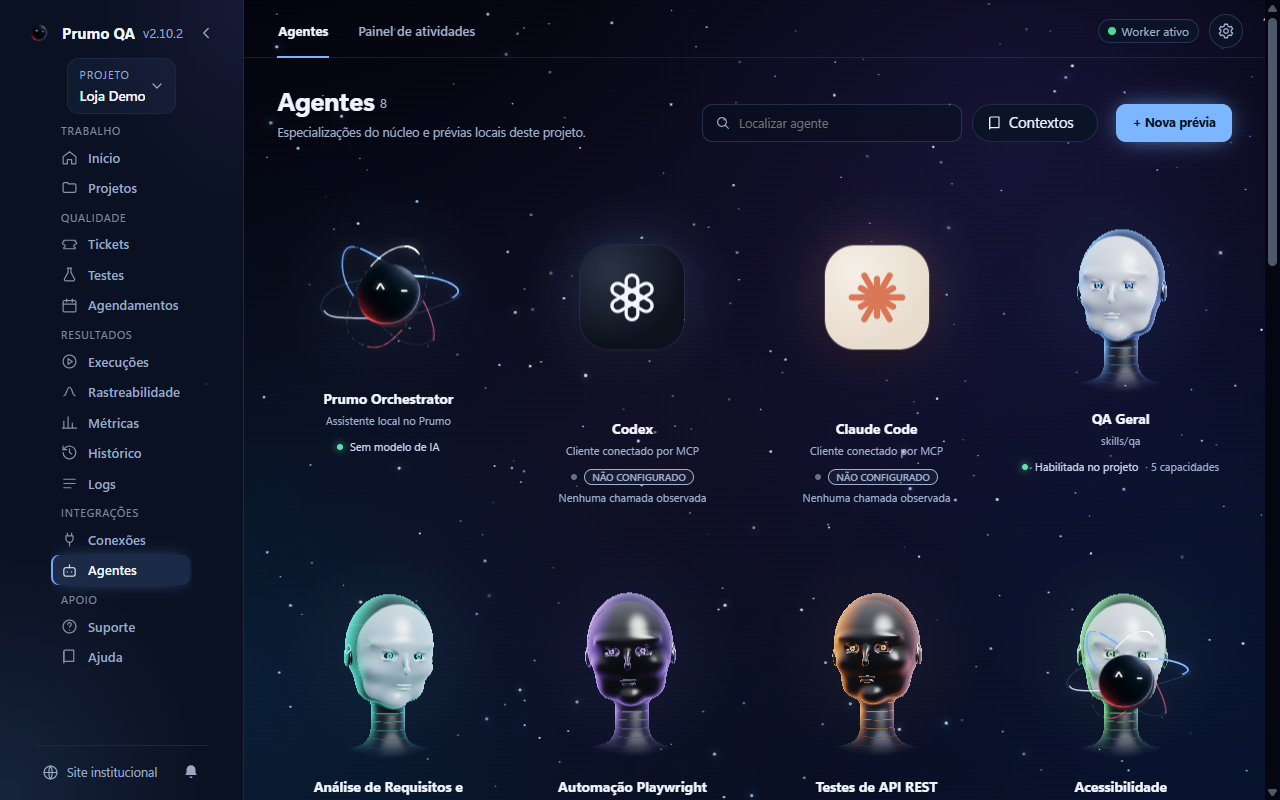
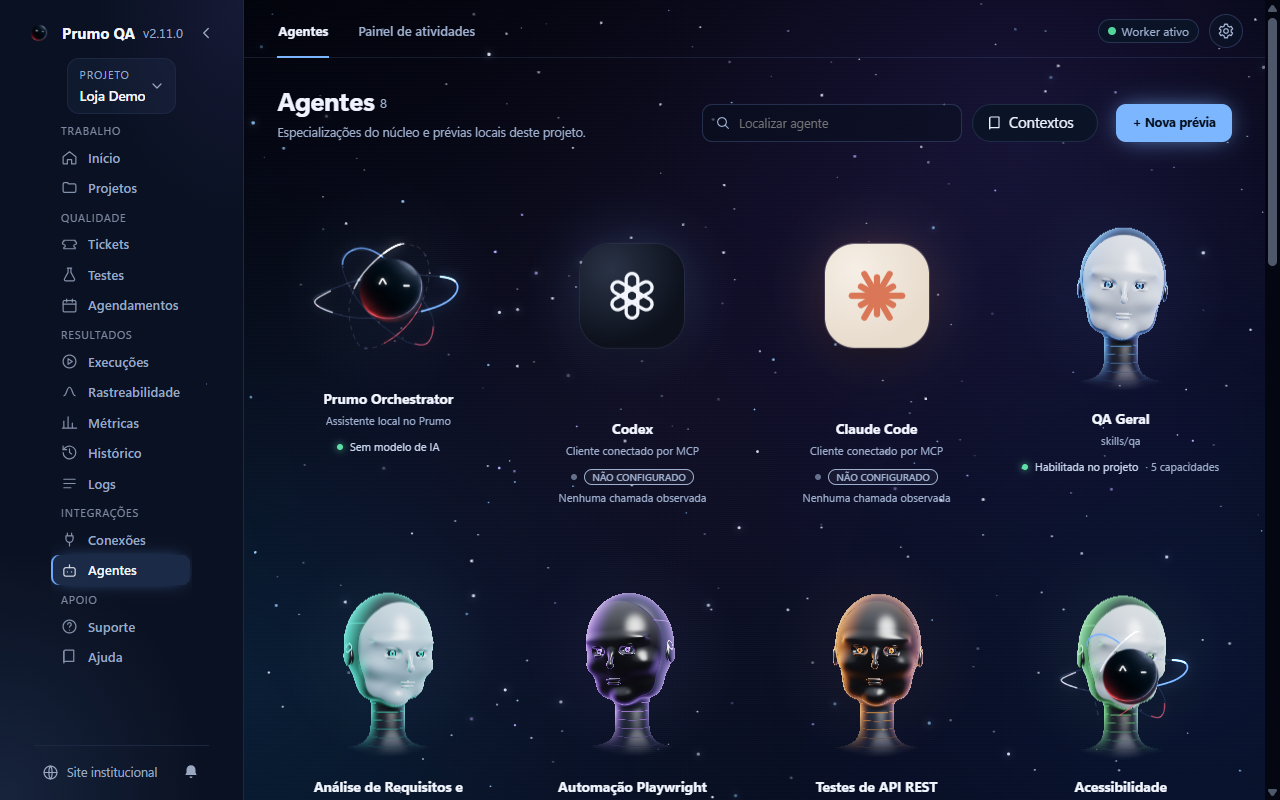
chore(2.11.0): versão, catálogo, README enxuto, capturas e rodapé Prumo QA
- package.json/lock e README na 2.11.0; entrada 2.11.0 no catálogo (repositório, sem release),
  que inclui a 2.10.2 não publicada.
- README começa por "Onde fica cada coisa"; seções históricas foram para docs/HISTORICO-README.md.
- Capturas do site refeitas do aplicativo real com dados sintéticos.
- Rodapé: "Site institucional" passa a "Prumo QA" e abre o site oficial após confirmação nativa.

diff --git a/frontend/compartilhado/runtime/i18n-en-29.js b/frontend/compartilhado/runtime/i18n-en-29.js
@@ -40,7 +40,7 @@ Object.assign(window.PRUMO_EN, {
   'Classificação inferida por tag, caminho e conteúdo; confira a confiança de cada teste. Nada foi executado: isto é a leitura estática do repositório.': 'Classification is inferred from tags, path and content; check each test\'s confidence. Nothing was run: this is a static reading of the repository.',
   'Atividade': 'Activity', 'Resultados': 'Results', 'Agenda': 'Schedule', 'Operações externas': 'External operations', 'Números': 'Numbers', 'Barras': 'Bars', 'Rosca': 'Donut', 'Módulos': 'Modules', 'Visual': 'View', 'Detalhes': 'Details', 'Sem dados para mostrar.': 'No data to show.', 'Selecione um projeto para ver estes dados.': 'Select a project to see this data.', 'confirmadas': 'confirmed', 'com falha': 'failed', 'bloqueadas': 'blocked', 'sem confirmação': 'unconfirmed', 'Agentes': 'Agents',
   'Trocar de projeto': 'Switch project', 'Gerenciar projetos…': 'Manage projects…', 'Criar o primeiro projeto…': 'Create the first project…',
-  'Site institucional': 'Institutional site', 'Ajustes': 'Settings', 'Cenário → automação (capability ou capability#cenário).': 'Scenario → automation (capability or capability#scenario).', 'Escrita desligada por padrão. Cada operação pede confirmação.': 'Writes are off by default. Each operation asks for confirmation.',
+  'Abrir o site oficial do Prumo QA': 'Open the official Prumo QA website', 'Ajustes': 'Settings', 'Cenário → automação (capability ou capability#cenário).': 'Scenario → automation (capability or capability#scenario).', 'Escrita desligada por padrão. Cada operação pede confirmação.': 'Writes are off by default. Each operation asks for confirmation.',
   'Recolher menu': 'Collapse menu', 'Expandir menu': 'Expand menu', 'Cor de destaque': 'Accent color', 'Azul': 'Blue', 'Violeta': 'Violet', 'Verde-água': 'Teal', 'Âmbar': 'Amber', 'Rosa': 'Pink',
   'Pergunte sobre este projeto…': 'Ask about this project…', 'Pergunta ao Prumo': 'Question for Prumo', 'Enviar': 'Send', 'Dados locais': 'Local data', 'Responde com os dados deste computador, sem modelo de IA.': 'Answers from this computer\'s data, no AI model.', 'Olá! Eu sou o Prumo.': 'Hi! I\'m Prumo.',
   'Quem se liga a quem e de onde veio cada ligação.': 'Who links to whom, and where each link came from.', 'O que a IA pode pedir ao Prumo neste projeto. Vale a cada chamada MCP. A IA só propõe.': 'What the AI may ask Prumo in this project. Enforced on every MCP call. The AI only proposes.', 'Selecione um projeto para configurar permissões.': 'Select a project to configure permissions.', 'Vincule o Qase em Conexões.': 'Link Qase in Connections.',

diff --git a/frontend/compartilhado/runtime/index.html b/frontend/compartilhado/runtime/index.html
@@ -21,7 +21,7 @@
         <div class="grupo-nav" role="group" aria-label="Apoio"><span class="grupo-rotulo" aria-hidden="true">Apoio</span><button data-aba="suporte" title="Suporte"><svg viewBox="0 0 24 24" width="17" height="17" fill="none" stroke="currentColor" stroke-width="1.7" stroke-linecap="round" stroke-linejoin="round" aria-hidden="true" focusable="false"><circle cx="12" cy="12" r="9"/><path d="M9.5 9a2.5 2.5 0 1 1 3.5 2.3c-.7.4-1 .9-1 1.7M12 17h.01"/></svg><span>Suporte</span></button><button data-aba="ajuda" title="Ajuda"><svg viewBox="0 0 24 24" width="17" height="17" fill="none" stroke="currentColor" stroke-width="1.7" stroke-linecap="round" stroke-linejoin="round" aria-hidden="true" focusable="false"><path d="M4 5a2 2 0 0 1 2-2h12v16H6a2 2 0 0 0-2 2z"/><path d="M4 19V5"/></svg><span>Ajuda</span></button></div>
       </nav>
       <div class="lateral-rodape">
-        <button id="site-institucional" class="link-site" type="button" title="Site institucional"><svg viewBox="0 0 24 24" width="17" height="17" fill="none" stroke="currentColor" stroke-width="1.7" stroke-linecap="round" stroke-linejoin="round" aria-hidden="true" focusable="false"><circle cx="12" cy="12" r="9"/><path d="M3 12h18M12 3c3 3 3 15 0 18M12 3c-3 3-3 15 0 18"/></svg><span>Site institucional</span></button>
+        <button id="site-institucional" class="link-site" type="button" title="Abrir o site oficial do Prumo QA"><svg viewBox="0 0 24 24" width="17" height="17" fill="none" stroke="currentColor" stroke-width="1.7" stroke-linecap="round" stroke-linejoin="round" aria-hidden="true" focusable="false"><circle cx="12" cy="12" r="9"/><path d="M3 12h18M12 3c3 3 3 15 0 18M12 3c-3 3-3 15 0 18"/></svg><span data-i18n-ignore>Prumo QA</span></button>
         <div class="sino-caixa">
           <button id="sino" class="sino" type="button" aria-label="Atualizações do Prumo QA: nenhuma novidade" aria-describedby="sino-dica">
             <svg viewBox="0 0 24 24" width="18" height="18" aria-hidden="true" focusable="false"><path d="M12 3a6 6 0 0 0-6 6v3.5L4.5 16h15L18 12.5V9a6 6 0 0 0-6-6zm-2 15a2 2 0 0 0 4 0z" fill="currentColor"/></svg>

diff --git a/backend/ajuda/api/siteAbrir.ts b/backend/ajuda/api/siteAbrir.ts
@@ -1,10 +1,10 @@
-/** Canal site:abrir: Abrir o site institucional oficial no navegador, depois de confirmar. */
+/** Canal site:abrir: Abrir o site oficial do Prumo QA no navegador, depois de confirmar. */
 import { dialog, shell } from 'electron';
 import { TratadorDoCanal } from '../../aplicativo/api/TratadorDoCanal.js';
 
 export const siteAbrir: TratadorDoCanal<'site:abrir'> = async (_a, janela) => {
   const url = 'https://prumo-qa-docs.onrender.com/';
-  const r = await dialog.showMessageBox(janela!, { type: 'question', title: 'Site institucional', buttons: ['Cancelar', 'Abrir no navegador'], defaultId: 0, cancelId: 0, noLink: true, message: 'Abrir o site institucional do Prumo QA?', detail: url });
+  const r = await dialog.showMessageBox(janela!, { type: 'question', title: 'Prumo QA', buttons: ['Cancelar', 'Abrir no navegador'], defaultId: 0, cancelId: 0, noLink: true, message: 'Abrir o site oficial do Prumo QA no navegador?', detail: url });
   if (r.response !== 1) return { opened: false };
   await shell.openExternal(url); return { opened: true };
 };

diff --git a/README.md b/README.md
@@ -1,101 +1,27 @@
-# Prumo QA 2.10 — Plataforma desktop de engenharia de qualidade
+# Prumo QA 2.11 — Plataforma desktop de engenharia de qualidade
 
-**Refatoração em desenvolvimento:** [Arquitetura modular por tela](docs/ARQUITETURA-MODULAR-ATUAL.md). No código da branch, procure `frontend/<tela>` e `backend/<tela>`; a `main` ainda utiliza o formato anterior.
+## Onde fica cada coisa
 
-Componentes compartilhados: `frontend/design-system/`; site: `site/gerar.mjs`, `site/componentes/` e `site/estilos/`. O build gera as cópias Electron. [Seleção de testes por camada, natureza e funcionalidade](docs/TESTES.md) · [Manifesto de Skills e consumidores](docs/SKILLS.md). `npm.cmd run dependencias` verifica os imports locais antes de reorganizações; `npm.cmd run check` inclui essa verificação.
+Procure pelo nome da tela que aparece no menu: a mesma pasta existe no frontend e no backend.
 
-Versão atual 2.10.2; releases publicadas em [github.com/AnaPLysyk/Prumo-Qa/releases](https://github.com/AnaPLysyk/Prumo-Qa/releases) (a 2.8.0 e a 2.7.0 não foram alteradas). [Agendamentos e worker](docs/AGENDAMENTOS.md) · [reaproveitamento](docs/REAPROVEITAMENTO-2.8.md) · [baseline 2.8](docs/BASELINE-2.8.md). [Documentação pública](https://prumo-qa-docs.onrender.com) · [baseline 2.7](docs/BASELINE-2.7.md) · [contratos dos serviços](docs/SERVICOS.md). Instalador sem assinatura; publicação depende das verificações obrigatórias.
+| Quero mexer em… | Vá para |
+| --- | --- |
+| O que aparece numa tela | `frontend/<tela>/` (fonte única; `app/renderer/` é gerado no build) |
+| O que a tela faz por trás (canais, regras, dados, integrações) | `backend/<tela>/` com `api/`, `regras/`, `banco/`, `integracoes/`, `tipos/` |
+| Componentes e estilos comuns | `frontend/design-system/` e `frontend/compartilhado/` |
+| Skills dos agentes | `skills/` (arquivos do aplicativo) e o banco `skills.db` ([docs/SKILLS.md](docs/SKILLS.md)) |
+| Testes | `testes/<tipo>/<camada>/` ([testes/LEIA-ME.md](testes/LEIA-ME.md)) |
+| Build, empacotamento, release, documentação gerada | `ferramentas/<finalidade>/` |
+| Site público | `site/gerar.mjs`, `site/componentes/`, `site/estilos/` |
+| Ajuda do aplicativo e do site | `app/ajuda/*.md` |
+
+Mapa completo: [Arquitetura modular por tela](docs/ARQUITETURA-MODULAR-ATUAL.md) · [índice do backend](backend/LEIA-ME.md) · [seleção de testes](docs/TESTES.md). `npm.cmd run check` confere dependências, tipos e a suíte inteira.
+
+Versão atual 2.11.0; releases publicadas em [github.com/AnaPLysyk/Prumo-Qa/releases](https://github.com/AnaPLysyk/Prumo-Qa/releases) (a 2.8.0 e a 2.7.0 não foram alteradas). [Agendamentos e worker](docs/AGENDAMENTOS.md) · [reaproveitamento](docs/REAPROVEITAMENTO-2.8.md) · [baseline 2.8](docs/BASELINE-2.8.md). [Documentação pública](https://prumo-qa-docs.onrender.com) · [baseline 2.7](docs/BASELINE-2.7.md) · [contratos dos serviços](docs/SERVICOS.md). Instalador sem assinatura; publicação depende das verificações obrigatórias.
 
 ## Ciclo de qualidade e IA
 
 [Guia do ciclo](docs/CICLO-QUALIDADE.md): projeto → requisitos → casos e cenários → execução manual/automatizada → evidências → revisão → aprendizado. Início, chat flutuante e Agentes compartilham o orquestrador, perfil local, memória da sessão e revisão de conhecimentos. Aprendizados de IA permanecem rascunhos até decisão da pessoa.
-
-## Evolução 2.9
-
-Integrações completas e uma interface nova. **Testes**: catálogo que lê os testes do repositório, agrupa por feature e classifica cada teste (unitário, integração, funcional, regressão, smoke, desempenho, acessibilidade) com motivo e confiança; casos e propostas do Qase; planos e execuções; automação e GitHub. **Jira**: busca com filtros, detalhe com histórico, comentar, anexar, mudar status e criar ticket. **Qase**: suites, casos, planos, runs, resultados publicados e conferidos. **GitHub**: branches `prumo/...`, commits e Pull Request em rascunho, nunca na branch principal. A escrita externa nasce **desligada**; cada operação mostra a prévia, pede confirmação nativa, não duplica e confirma relendo o serviço. **Agentes**: oito especializações e políticas por capacidade aplicadas no servidor MCP (a IA só propõe). **Início** com esfera e assistente local (responde com os dados do computador, sem modelo de IA). Menu lateral recolhível, cor de destaque, F5 atualiza a tela, Métricas modulares, ícone novo (a esfera) e site institucional renovado. Limites: escritas validadas contra serviços simulados (sem contas reais), classificação de testes é inferência, instalador sem assinatura. Guia: `app/ajuda/19-testes-e-integracoes.md`.
-
-## Correção 2.8.1
-
-A verificação de atualização agora diz o que aconteceu quando não conclui: sem conexão, tempo esgotado, recusa do GitHub (HTTP 403), erro do servidor (5xx) ou **limite de consultas** (HTTP 429 ou 403 com cota esgotada, com o horário de nova tentativa quando o GitHub o informa). Consulta que não conclui nunca é mostrada como "você já usa a versão mais recente" nem apaga o aviso já conhecido; a tela mostra a data da última consulta concluída. Continua uma requisição manual, sem token, sem nova tentativa automática e sem consulta em segundo plano. O catálogo de versões passou a marcar a 2.8.0 como publicada (o site anunciava uma versão antiga porque versões já lançadas ficavam como "no repositório"); um teste impede que isso se repita e o CI confere a release publicada. Publicar o site no Render continua sendo um passo manual (o serviço `prumo-qa-docs` está com deploy automático desligado).
-
-## Evolução 2.8
-
-O Prumo passa a **organizar e executar uma rotina de QA sozinho**, sem IA: agendamentos único, por intervalo, diário e semanal (fuso e horário de verão), fila persistente por projeto, worker residente na **bandeja do Windows** e rotinas de consulta Jira, smoke, regressão, validação por ticket, análise de mudanças e k6 (executável oficial, limites explícitos, produção bloqueada). Testes agendados exigem autorização prévia restrita (projeto, ambiente, comando por hash, validade, limite de usos, revogável) obtida pelo mesmo broker nativo do Windows, que não foi alterado; sem ela a execução fica BLOCKED. Resultados do Playwright viram cenários individuais (reporter incluído). O histórico é centralizado por projeto, repositório, ticket e rotina, com métricas reais (sem porcentagem de qualidade).
-
-Única escrita remota: **comentário de resultado em ticket Jira**, com prévia e confirmação, ou política aprovada para rotinas agendadas; idempotente, sem alterar status. Interface com a identidade **Quality Control** (esfera e órbitas que só se movem com trabalho real), temas claro, escuro e do sistema, e português e inglês, tudo persistido por usuário. Claude e Codex continuam opcionais e sem poder de executar, agendar ou publicar. Veja [AGENDAMENTOS.md](docs/AGENDAMENTOS.md), a ajuda do aplicativo e [SEGURANCA.md](docs/SEGURANCA.md). Fora do instalador: o laboratório e a demonstração de 26 passos (`testes/e2e/ui/demonstracao-28.test.mjs`).
-
-## Evolução 2.7
-
-Projetos Prumo com identidade própria, contexto manual e pasta de automação opcional. Conexões desktop independentes para Jira Cloud, Qase v1 e GitHub: seleção dinâmica, leitura explícita, origem e data, isolamento por projeto/instância/conexão e credenciais protegidas pelo Windows. IA continua opcional; Agentes preserva os quatro tools MCP. Não existe servidor HTTP local, escrita em serviços, clone privado ou aprovação automática.
-
-Tickets, Testes, Automações, Execuções e Rastreabilidade completam o trabalho manual. Associações declaradas não comprovam cobertura. Respostas são consultadas sem cache persistido; falhas aparecem com códigos próprios. [Guia manual](app/ajuda/17-plataforma.md) e [endpoints, autenticação e limites](docs/SERVICOS.md). Autenticação real em produção requer credenciais próprias; fixtures não a comprovam.
-
-## Evolução 2.6
-
-- Conexões distingue configuração compatível, validação de protocolo SDK e chamada observada de cliente. O botão **Testar integração** verifica handshake, quatro ferramentas e leitura, com UUID próprio. Não executa capabilities nem comprova que Claude/Codex usou o servidor.
-- Registros novos guardam somente referências de contextos incluídos/consultados (id, versão, hash, estado e finalidade). Não afirmam que o agente seguiu as regras.
-- Suporte exporta Markdown com id explicitamente LOCAL e consulta, por ação sua, rótulos e eventos da issue oficial. Status e respostas continuam no GitHub, sem segunda base sincronizada.
-- Documentação pública: `npm.cmd run site` gera `site/public` das fontes de ajuda, contratos e versões; configuração Render em `render.yaml`. O site não acessa projetos locais nem executa testes.
-- Skills QA e Playwright aprofundadas, referência de engenharia e Skill `acessibilidade`. As especializações precisam ser instaladas no cliente; MCP não as carrega universalmente.
-
-Camada local de engenharia de qualidade para agentes que já desenvolvem software. Entende o contexto autorizado de um projeto, confere estrutura de planos de teste, controla execução e preserva evidências. A IA hospedeira interpreta requisitos e riscos; o núcleo impõe regras determinísticas. Não exige outra chave de LLM.
-
-CLI e servidor MCP stdio usam o mesmo núcleo. São quatro tools: `contexto_projeto`, `revisar_cobertura`, `executar_validacao`, `consultar_evidencias`. A Skill orienta o raciocínio; não é um modelo nem um mecanismo de permissão.
-
-A versão 2.1 acrescenta um terminal de acompanhamento, histórico local e métricas derivadas das operações realmente observadas. Contexto, revisão estrutural, consultas, logs e métricas funcionam sem IA conectada. A IA externa continua responsável por interpretar requisitos e riscos. Não há chat independente, segunda chave de LLM nem telemetria remota.
-
-```text
-Claude / Codex / IA compatível
-               |
-          MCP local stdio
-               |
-     Prumo QA: quatro ferramentas <--- CLI
-               |
-        Núcleo de qualidade
-               |
-    Atividades       Evidências de testes
-    dados do usuário .prumo do projeto
-               |
-         Terminal Prumo
-```
-
-O terminal consulta arquivos locais; a IA não precisa permanecer ligada. Uma chamada MCP concluída não equivale a teste PASS. A imagem de referência usa números ilustrativos; o programa mostra somente o seu histórico.
-
-## Novidades da 2.5
-
-- **Suporte**: aba para relatar bug, melhoria ou sugestão. O relato é montado e revisado localmente (segredos bloqueiam, dados pessoais avisam), nada é anexado sem marcação e o formulário oficial de GitHub Issues só é aberto após confirmação nativa. Também exporta para arquivo, sem GitHub. Detalhes e triagem segura em [docs/SUPORTE.md](docs/SUPORTE.md).
-- **Sino de atualização** no cabeçalho (mouse, teclado e clique) e **som opcional** que toca uma vez por versão; preferências persistentes; a verificação de atualização não roda em segundo plano e não há serviço do Windows nem tarefa agendada; nada é baixado ou instalado automaticamente.
-
-## Novidades da 2.4
-
-- **Contextos por projeto**: requisitos, regras, critérios, restrições e decisões com estados RASCUNHO/APROVADO/CONFLITANTE/DESATUALIZADO, aprovação humana, histórico verificável por hash, isolamento e exclusão com confirmação. Só vão à IA se você habilitar (ver [docs/APLICATIVO.md](docs/APLICATIVO.md)).
-- **`revisar_cobertura` com `contextoId`** e **`contexto_projeto`** com contextos autorizados, frameworks detectados e conhecimento aplicável.
-- **Playwright e API REST**: detecção por evidência real, 12 regras de análise de testes com fonte oficial e Skills especializadas.
-- Marcos: [docs/MARCOS.md](docs/MARCOS.md) (2.3.1 estabilização/assinatura, 2.4.0 contextos, 2.5.0 suporte e notificações); [docs/ASSINATURA.md](docs/ASSINATURA.md) e [docs/INSTALACAO-MANUAL.md](docs/INSTALACAO-MANUAL.md).
-
-## Novidades da 2.3
-
-- **Ajuda › Integrações técnicas**: catálogo das 20 operações IPC da janela e das 4 ferramentas MCP, gerado do código ([docs/CONTRATOS.md](docs/CONTRATOS.md)) e conferido por testes. Não existe API HTTP.
-- **Ajuda › Versões**: histórico detalhado de 2.0.0 a 2.3.0, offline, de uma fonte única (`app/versoes.json`) que também gera as notas de release.
-- **Ajuda › Atualizações**: verificação **manual** da release oficial; nada é baixado nem instalado. Atualizar sobre a versão anterior preserva projetos, histórico, métricas e evidências (testado no CI com a 2.2.0 publicada).
-- **Ajuda › Privacidade e dados**: pasta real, espaço usado, retenção, exportação e exclusão controlada por escopo, com confirmação nativa.
-- **Central de ajuda** reorganizada (guia, perguntas frequentes expansíveis, problemas comuns) e **diagnóstico da interface** separado das métricas de QA.
-- **Prumo QA Lab**: projeto independente (pasta irmã Prumo-QA-Lab; o repositório remoto AnaPLysyk/Prumo-QA-Lab ainda precisa ser criado, veja [docs/ENTREGA-2.3.md](docs/ENTREGA-2.3.md)) com oito situações controladas para avaliar o próprio Prumo pelo MCP real.
-
-## Aplicativo desktop (2.2)
-
-A versão 2.2 acrescenta uma **janela desktop** (Electron) para consultar projetos, métricas, logs, histórico, evidências, conexões de IA e a ajuda (privacidade e termos em rascunho). É só apresentação: usa o mesmo núcleo, não executa testes e não altera projetos. O servidor MCP continua sendo iniciado pelo cliente de IA e **não depende da janela**.
-
-Para usar sem PowerShell, baixe o instalador `Prumo-QA-Setup-<versão>.exe` na página de *Releases* do repositório (não exige Node.js). O instalador **não é assinado**: o SmartScreen ou o Smart App Control podem alertar ou bloquear, e o Prumo não contorna isso. Para desenvolver ou gerar o instalador:
-
-```powershell
-npm.cmd ci
-Remove-Item Env:ELECTRON_RUN_AS_NODE -ErrorAction SilentlyContinue   # se definido pelo terminal
-npm.cmd run app      # abre a janela em desenvolvimento
-npm.cmd run dist     # release\Prumo-QA-Setup-<versão>.exe
-```
-
-Arquitetura, dados, segurança da janela, troca do ícone (`assets/`), release pelo GitHub Actions e limitações do Smart App Control estão em [docs/APLICATIVO.md](docs/APLICATIVO.md).
 
 ## Instalar no Windows PowerShell
 
@@ -189,7 +115,7 @@ Também pode usar `node .\dist\cli.js`, `npm.cmd run prumo --` ou o script compa
 
 ## Estrutura
 
-O backend é organizado **por tela**: `backend/<tela>/` tem a mesma pasta que a tela tem no frontend. Dentro de cada tela, `api/` atende os pedidos da janela (um arquivo por canal IPC, com o nome do canal), `regras/` decide, `banco/` lê e grava os dados deste computador, `integracoes/` fala com Jira, Qase, GitHub ou IA e `tipos/` descreve o formato dos dados. Cada arquivo tem uma única função, com o nome do arquivo, e começa com uma frase dizendo o que faz. O índice completo, gerado do código, está em [backend/LEIA-ME.md](backend/LEIA-ME.md) e em cada `backend/<tela>/LEIA-ME.md`.
+O backend é organizado **por tela**: `backend/<tela>/` tem a mesma pasta que a tela tem no frontend. Dentro de cada tela, `api/` atende os pedidos da janela (um arquivo por canal IPC, com o nome do canal), `regras/` decide, `banco/` lê e grava os dados deste computador, `integracoes/` fala com Jira, Qase, GitHub ou IA e `tipos/` descreve o formato dos dados. Cada arquivo começa com uma frase dizendo o que faz; os canais de `api/` têm um arquivo por canal e as regras reúnem suas funções auxiliares privadas no mesmo arquivo. O índice completo, gerado do código, está em [backend/LEIA-ME.md](backend/LEIA-ME.md) e em cada `backend/<tela>/LEIA-ME.md`.
 
 | Caminho | Responsabilidade |
 |---|---|
@@ -203,14 +129,16 @@ O backend é organizado **por tela**: `backend/<tela>/` tem a mesma pasta que a 
 | `backend/testes/` | Catálogo de testes, frameworks e análise Playwright, revisão de cobertura, runs e escrita no Qase |
 | `backend/tickets/` | Propostas de caso/bug e escrita no Jira |
 | `backend/conexoes/` | Contas de serviço com credencial protegida, transporte HTTPS, escrita externa controlada, GitHub e conexão das IAs pelo MCP |
-| `backend/agentes/` | Chat com agentes, banco de conhecimento (SQLite local), políticas da IA e servidor MCP |
+| `backend/agentes/` | Chat com agentes, bancos de conhecimento e de Skills (SQLite local), políticas da IA e servidor MCP |
 | `backend/contextos/`, `backend/evidencias/`, `backend/logs/`, `backend/projetos/` … | Uma pasta por tela, cada uma com seu `LEIA-ME.md` |
-| `app/preload.cjs`, `app/renderer/` | Ponte mínima (`window.prumo`) e interface HTML/CSS/JS sem frameworks |
+| `app/preload.cjs` | Ponte mínima (`window.prumo`) entre a janela e os canais IPC |
+| `frontend/<tela>/` → `app/renderer/` | Interface HTML/CSS/JS sem frameworks; `app/renderer/` é gerado no build e não é versionado |
 | `app/ajuda/*.md` | Documentos da aba Ajuda (inclui privacidade e termos em rascunho) |
 | `electron-builder.yml`, `assets/` | Instalador NSIS e ícone substituível |
 | `.github/workflows/windows.yml` | Testes, instalador, instalação em pasta com espaços e release por tag |
 | `skills/qa/SKILL.md` | Método de qualidade aplicável do ISTQB, sem meta fixa de cenários |
-| `testes/*.test.mjs` | Contrato, segurança, subprocessos, CLI, MCP real, aceitação sintética e a estrutura do backend (`estrutura-backend.test.mjs`) |
+| `testes/<tipo>/<camada>/` | Unitários, contratos (IPC, MCP), integração, segurança, E2E na janela real e migração; regras do repositório em `testes/estrutura/` |
+| `ferramentas/` | Ferramentas por finalidade: arquitetura, documentação, frontend, empacotamento, release, migração, site, qa, skills e testes |
 | `exemplos/projeto-demo` | Produto fictício de publicações, dados em memória e testes reais |
 | `exemplos/plano-demo.json` | Revisão rastreável com cenário duplicado |
 | `exemplos/g3-somente-leitura.json` | Contrato externo restrito, sem comandos, para G3 |

diff --git a/docs/HISTORICO-README.md b/docs/HISTORICO-README.md
@@ -1,0 +1,90 @@
+# Histórico das versões no README
+
+Seções que estavam no README até a 2.10.2, preservadas como registro. O catálogo oficial de cada versão está em `app/versoes.json` (Ajuda › Versões e site).
+
+## Evolução 2.9
+
+Integrações completas e uma interface nova. **Testes**: catálogo que lê os testes do repositório, agrupa por feature e classifica cada teste (unitário, integração, funcional, regressão, smoke, desempenho, acessibilidade) com motivo e confiança; casos e propostas do Qase; planos e execuções; automação e GitHub. **Jira**: busca com filtros, detalhe com histórico, comentar, anexar, mudar status e criar ticket. **Qase**: suites, casos, planos, runs, resultados publicados e conferidos. **GitHub**: branches `prumo/...`, commits e Pull Request em rascunho, nunca na branch principal. A escrita externa nasce **desligada**; cada operação mostra a prévia, pede confirmação nativa, não duplica e confirma relendo o serviço. **Agentes**: oito especializações e políticas por capacidade aplicadas no servidor MCP (a IA só propõe). **Início** com esfera e assistente local (responde com os dados do computador, sem modelo de IA). Menu lateral recolhível, cor de destaque, F5 atualiza a tela, Métricas modulares, ícone novo (a esfera) e site institucional renovado. Limites: escritas validadas contra serviços simulados (sem contas reais), classificação de testes é inferência, instalador sem assinatura. Guia: `app/ajuda/19-testes-e-integracoes.md`.
+
+## Correção 2.8.1
+
+A verificação de atualização agora diz o que aconteceu quando não conclui: sem conexão, tempo esgotado, recusa do GitHub (HTTP 403), erro do servidor (5xx) ou **limite de consultas** (HTTP 429 ou 403 com cota esgotada, com o horário de nova tentativa quando o GitHub o informa). Consulta que não conclui nunca é mostrada como "você já usa a versão mais recente" nem apaga o aviso já conhecido; a tela mostra a data da última consulta concluída. Continua uma requisição manual, sem token, sem nova tentativa automática e sem consulta em segundo plano. O catálogo de versões passou a marcar a 2.8.0 como publicada (o site anunciava uma versão antiga porque versões já lançadas ficavam como "no repositório"); um teste impede que isso se repita e o CI confere a release publicada. Publicar o site no Render continua sendo um passo manual (o serviço `prumo-qa-docs` está com deploy automático desligado).
+
+## Evolução 2.8
+
+O Prumo passa a **organizar e executar uma rotina de QA sozinho**, sem IA: agendamentos único, por intervalo, diário e semanal (fuso e horário de verão), fila persistente por projeto, worker residente na **bandeja do Windows** e rotinas de consulta Jira, smoke, regressão, validação por ticket, análise de mudanças e k6 (executável oficial, limites explícitos, produção bloqueada). Testes agendados exigem autorização prévia restrita (projeto, ambiente, comando por hash, validade, limite de usos, revogável) obtida pelo mesmo broker nativo do Windows, que não foi alterado; sem ela a execução fica BLOCKED. Resultados do Playwright viram cenários individuais (reporter incluído). O histórico é centralizado por projeto, repositório, ticket e rotina, com métricas reais (sem porcentagem de qualidade).
+
+Única escrita remota: **comentário de resultado em ticket Jira**, com prévia e confirmação, ou política aprovada para rotinas agendadas; idempotente, sem alterar status. Interface com a identidade **Quality Control** (esfera e órbitas que só se movem com trabalho real), temas claro, escuro e do sistema, e português e inglês, tudo persistido por usuário. Claude e Codex continuam opcionais e sem poder de executar, agendar ou publicar. Veja [AGENDAMENTOS.md](docs/AGENDAMENTOS.md), a ajuda do aplicativo e [SEGURANCA.md](docs/SEGURANCA.md). Fora do instalador: o laboratório e a demonstração de 26 passos (`testes/e2e/ui/demonstracao-28.test.mjs`).
+
+## Evolução 2.7
+
+Projetos Prumo com identidade própria, contexto manual e pasta de automação opcional. Conexões desktop independentes para Jira Cloud, Qase v1 e GitHub: seleção dinâmica, leitura explícita, origem e data, isolamento por projeto/instância/conexão e credenciais protegidas pelo Windows. IA continua opcional; Agentes preserva os quatro tools MCP. Não existe servidor HTTP local, escrita em serviços, clone privado ou aprovação automática.
+
+Tickets, Testes, Automações, Execuções e Rastreabilidade completam o trabalho manual. Associações declaradas não comprovam cobertura. Respostas são consultadas sem cache persistido; falhas aparecem com códigos próprios. [Guia manual](app/ajuda/17-plataforma.md) e [endpoints, autenticação e limites](docs/SERVICOS.md). Autenticação real em produção requer credenciais próprias; fixtures não a comprovam.
+
+## Evolução 2.6
+
+- Conexões distingue configuração compatível, validação de protocolo SDK e chamada observada de cliente. O botão **Testar integração** verifica handshake, quatro ferramentas e leitura, com UUID próprio. Não executa capabilities nem comprova que Claude/Codex usou o servidor.
+- Registros novos guardam somente referências de contextos incluídos/consultados (id, versão, hash, estado e finalidade). Não afirmam que o agente seguiu as regras.
+- Suporte exporta Markdown com id explicitamente LOCAL e consulta, por ação sua, rótulos e eventos da issue oficial. Status e respostas continuam no GitHub, sem segunda base sincronizada.
+- Documentação pública: `npm.cmd run site` gera `site/public` das fontes de ajuda, contratos e versões; configuração Render em `render.yaml`. O site não acessa projetos locais nem executa testes.
+- Skills QA e Playwright aprofundadas, referência de engenharia e Skill `acessibilidade`. As especializações precisam ser instaladas no cliente; MCP não as carrega universalmente.
+
+Camada local de engenharia de qualidade para agentes que já desenvolvem software. Entende o contexto autorizado de um projeto, confere estrutura de planos de teste, controla execução e preserva evidências. A IA hospedeira interpreta requisitos e riscos; o núcleo impõe regras determinísticas. Não exige outra chave de LLM.
+
+CLI e servidor MCP stdio usam o mesmo núcleo. São quatro tools: `contexto_projeto`, `revisar_cobertura`, `executar_validacao`, `consultar_evidencias`. A Skill orienta o raciocínio; não é um modelo nem um mecanismo de permissão.
+
+A versão 2.1 acrescenta um terminal de acompanhamento, histórico local e métricas derivadas das operações realmente observadas. Contexto, revisão estrutural, consultas, logs e métricas funcionam sem IA conectada. A IA externa continua responsável por interpretar requisitos e riscos. Não há chat independente, segunda chave de LLM nem telemetria remota.
+
+```text
+Claude / Codex / IA compatível
+               |
+          MCP local stdio
+               |
+     Prumo QA: quatro ferramentas <--- CLI
+               |
+        Núcleo de qualidade
+               |
+    Atividades       Evidências de testes
+    dados do usuário .prumo do projeto
+               |
+         Terminal Prumo
+```
+
+O terminal consulta arquivos locais; a IA não precisa permanecer ligada. Uma chamada MCP concluída não equivale a teste PASS. A imagem de referência usa números ilustrativos; o programa mostra somente o seu histórico.
+
+## Novidades da 2.5
+
+- **Suporte**: aba para relatar bug, melhoria ou sugestão. O relato é montado e revisado localmente (segredos bloqueiam, dados pessoais avisam), nada é anexado sem marcação e o formulário oficial de GitHub Issues só é aberto após confirmação nativa. Também exporta para arquivo, sem GitHub. Detalhes e triagem segura em [docs/SUPORTE.md](docs/SUPORTE.md).
+- **Sino de atualização** no cabeçalho (mouse, teclado e clique) e **som opcional** que toca uma vez por versão; preferências persistentes; a verificação de atualização não roda em segundo plano e não há serviço do Windows nem tarefa agendada; nada é baixado ou instalado automaticamente.
+
+## Novidades da 2.4
+
+- **Contextos por projeto**: requisitos, regras, critérios, restrições e decisões com estados RASCUNHO/APROVADO/CONFLITANTE/DESATUALIZADO, aprovação humana, histórico verificável por hash, isolamento e exclusão com confirmação. Só vão à IA se você habilitar (ver [docs/APLICATIVO.md](docs/APLICATIVO.md)).
+- **`revisar_cobertura` com `contextoId`** e **`contexto_projeto`** com contextos autorizados, frameworks detectados e conhecimento aplicável.
+- **Playwright e API REST**: detecção por evidência real, 12 regras de análise de testes com fonte oficial e Skills especializadas.
+- Marcos: [docs/MARCOS.md](docs/MARCOS.md) (2.3.1 estabilização/assinatura, 2.4.0 contextos, 2.5.0 suporte e notificações); [docs/ASSINATURA.md](docs/ASSINATURA.md) e [docs/INSTALACAO-MANUAL.md](docs/INSTALACAO-MANUAL.md).
+
+## Novidades da 2.3
+
+- **Ajuda › Integrações técnicas**: catálogo das 20 operações IPC da janela e das 4 ferramentas MCP, gerado do código ([docs/CONTRATOS.md](docs/CONTRATOS.md)) e conferido por testes. Não existe API HTTP.
+- **Ajuda › Versões**: histórico detalhado de 2.0.0 a 2.3.0, offline, de uma fonte única (`app/versoes.json`) que também gera as notas de release.
+- **Ajuda › Atualizações**: verificação **manual** da release oficial; nada é baixado nem instalado. Atualizar sobre a versão anterior preserva projetos, histórico, métricas e evidências (testado no CI com a 2.2.0 publicada).
+- **Ajuda › Privacidade e dados**: pasta real, espaço usado, retenção, exportação e exclusão controlada por escopo, com confirmação nativa.
+- **Central de ajuda** reorganizada (guia, perguntas frequentes expansíveis, problemas comuns) e **diagnóstico da interface** separado das métricas de QA.
+- **Prumo QA Lab**: projeto independente (pasta irmã Prumo-QA-Lab; o repositório remoto AnaPLysyk/Prumo-QA-Lab ainda precisa ser criado, veja [docs/ENTREGA-2.3.md](docs/ENTREGA-2.3.md)) com oito situações controladas para avaliar o próprio Prumo pelo MCP real.
+
+## Aplicativo desktop (2.2)
+
+A versão 2.2 acrescenta uma **janela desktop** (Electron) para consultar projetos, métricas, logs, histórico, evidências, conexões de IA e a ajuda (privacidade e termos em rascunho). É só apresentação: usa o mesmo núcleo, não executa testes e não altera projetos. O servidor MCP continua sendo iniciado pelo cliente de IA e **não depende da janela**.
+
+Para usar sem PowerShell, baixe o instalador `Prumo-QA-Setup-<versão>.exe` na página de *Releases* do repositório (não exige Node.js). O instalador **não é assinado**: o SmartScreen ou o Smart App Control podem alertar ou bloquear, e o Prumo não contorna isso. Para desenvolver ou gerar o instalador:
+
+```powershell
+npm.cmd ci
+Remove-Item Env:ELECTRON_RUN_AS_NODE -ErrorAction SilentlyContinue   # se definido pelo terminal
+npm.cmd run app      # abre a janela em desenvolvimento
+npm.cmd run dist     # release\Prumo-QA-Setup-<versão>.exe
+```
+
+Arquitetura, dados, segurança da janela, troca do ícone (`assets/`), release pelo GitHub Actions e limitações do Smart App Control estão em [docs/APLICATIVO.md](docs/APLICATIVO.md).

diff --git a/docs/SEGURANCA.md b/docs/SEGURANCA.md
@@ -114,7 +114,7 @@ Falha de escrita de atividade mantém o resultado do núcleo e avisa em stderr (
 - **Escopo do CLI delegado**: a execução usa uma pasta temporária vazia, sem carregar configuração do repositório conectado. Claude recebe lista vazia de ferramentas e de servidores MCP, hooks desabilitados e sessão sem persistência. Codex ignora configuração de usuário e desabilita hooks, apps, plugins e execução shell; usa sandbox read-only, sessão efêmera e não pode escalar permissões. São flags do CLI instalado: versões incompatíveis falham e a resposta local informa o problema. Isso depende da aplicação correta dessas restrições pelo executável do provedor; não é uma sandbox independente contra um executável adulterado. O prompt pode ser processado pela conta externa autorizada. Falha ao guardar metadados ou sugestões de aprendizado aparece como aviso, sem apagar a resposta bem-sucedida da IA.
 - **Banco de Skills (`skills.db`)**: SQLite local separado do `conhecimento.db`, na mesma pasta de dados, com as mesmas defesas (recusa de atalhos e de arquivo com mais de um vínculo, segredos mascarados, limites). Cada Skill fica em trechos com origem (PRUMO, PESSOA, IMPORTADO, IA), estado e, quando importada, fonte e licença. Os trechos do Prumo são sincronizados com a pasta `skills/` do aplicativo a cada versão; um trecho descartado pela pessoa continua descartado enquanto o texto não muda. O que a equipe escreve nasce APROVADO; importado e IA nascem RASCUNHO e só entram no prompt depois de aprovados. A importação lê uma pasta já presente no computador, escolhida no seletor de pastas do sistema (nunca um caminho vindo da janela), aceita só `SKILL.md` e `references/*.md` (até 64 KB cada, sem binário e sem atalho), ignora scripts e recusa pasta sem licença aberta reconhecida (MIT, Apache-2.0, BSD, ISC, 0BSD, Unlicense, CC0, CC-BY, CC-BY-SA). Nada é baixado nem executado. Trecho de Skill é instrução para a IA externa, por isso depende de aprovação humana; ele não autoriza comandos, testes, agendamentos nem publicação. Se o banco não abrir, o chat usa só as Skills que acompanham o aplicativo.
 - **Testes do ciclo de IA**: o runner substitui a persistência de conhecimento e de Skills por memória e executores externos por funções sintéticas. Nenhum SQLite ou conta externa é acessado por esses testes; eles validam contratos, roteamento, interface, isolamento e falhas observáveis, sem comprovar autenticação real do provedor nem persistência SQLite.
-- **Site institucional**: o botão abre uma URL fixa após confirmação nativa.
+- **Prumo QA (rodapé)**: o botão abre a URL fixa do site oficial (`https://prumo-qa-docs.onrender.com/`) só após confirmação nativa.
 - Limite: as escritas foram exercitadas contra serviços simulados; o instalador não é assinado.
 
 

diff --git a/backend/ajuda/LEIA-ME.md b/backend/ajuda/LEIA-ME.md
@@ -15,7 +15,7 @@ Portas da tela: cada arquivo atende um pedido da janela (um canal IPC, com o mes
 | `ajudaVersoes.ts` | Canal ajuda:versoes: Histórico de versões e versão instalada. |
 | `dadosExcluir.ts` | Canal dados:excluir: Excluir histórico operacional, evidências de um projeto ou diagnósticos do aplicativo. |
 | `dadosResumo.ts` | Canal dados:resumo: Mostrar onde ficam os dados locais e quanto espaço ocupam. |
-| `siteAbrir.ts` | Canal site:abrir: Abrir o site institucional oficial no navegador, depois de confirmar. |
+| `siteAbrir.ts` | Canal site:abrir: Abrir o site oficial do Prumo QA no navegador, depois de confirmar. |
 
 ## privacidade/
 
